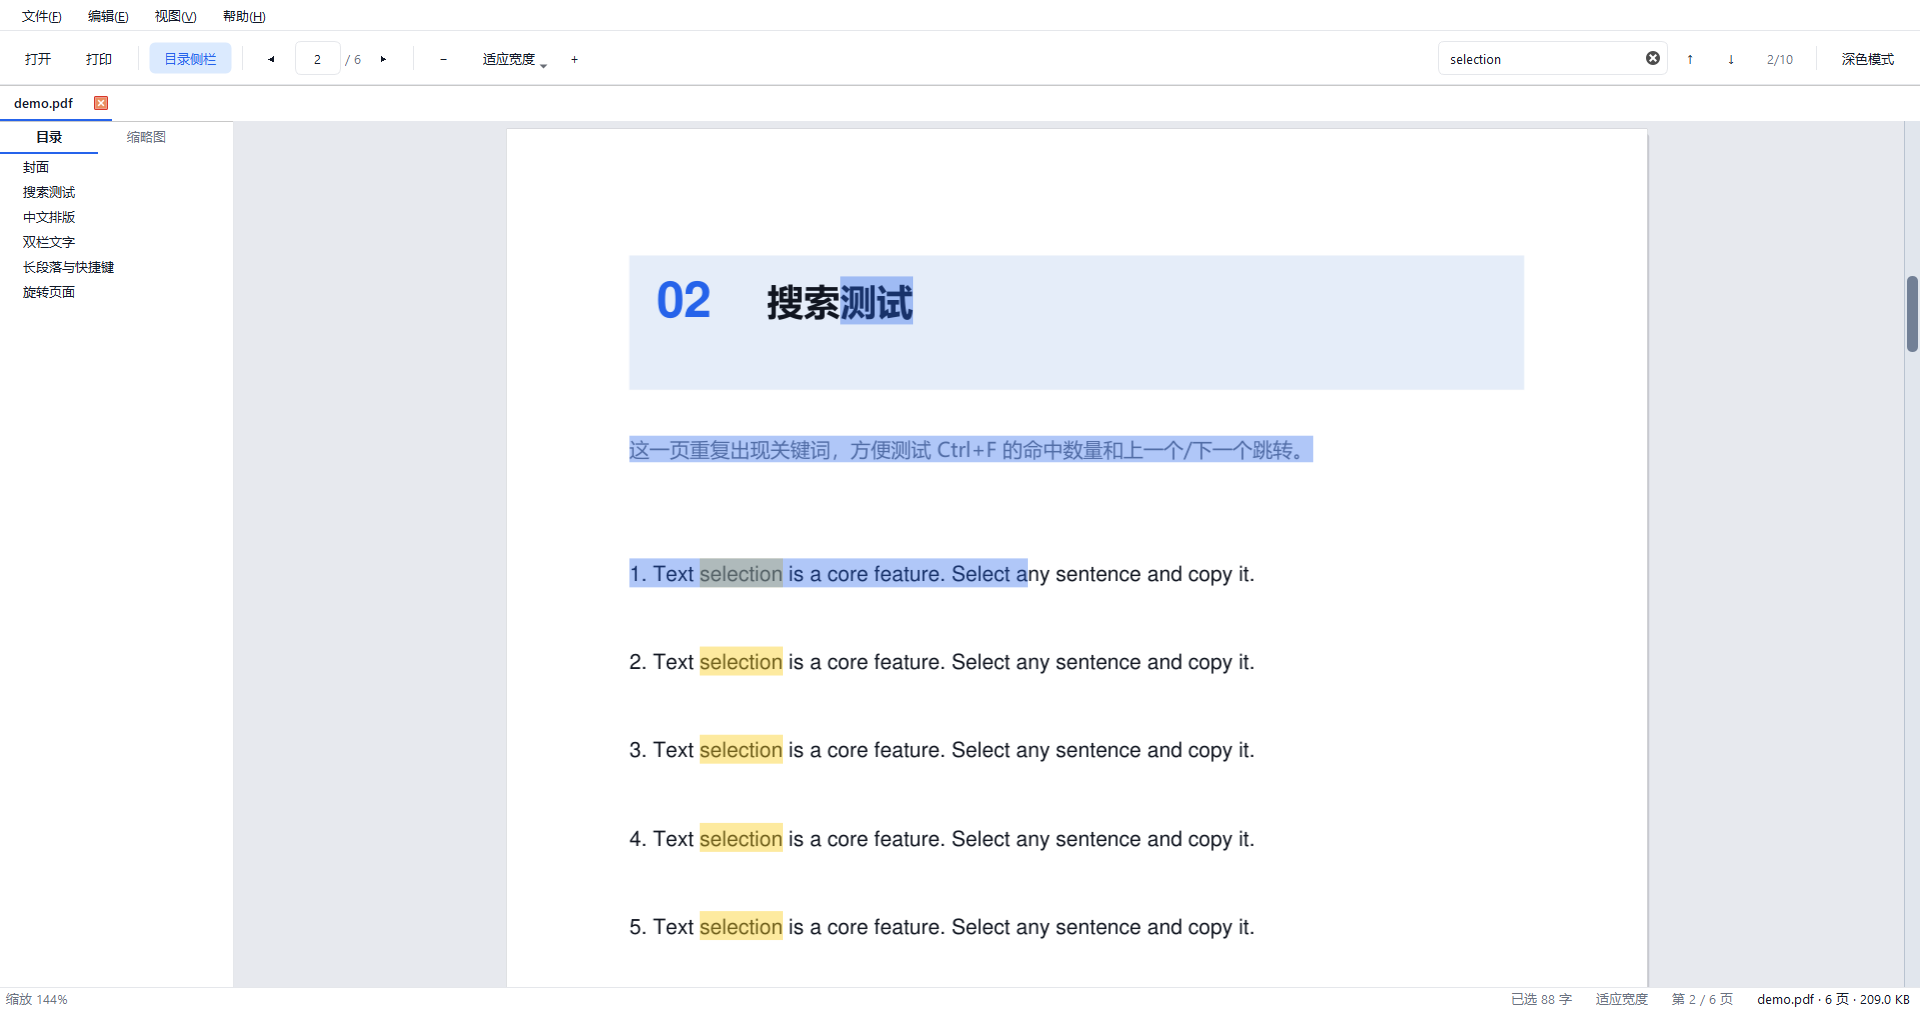
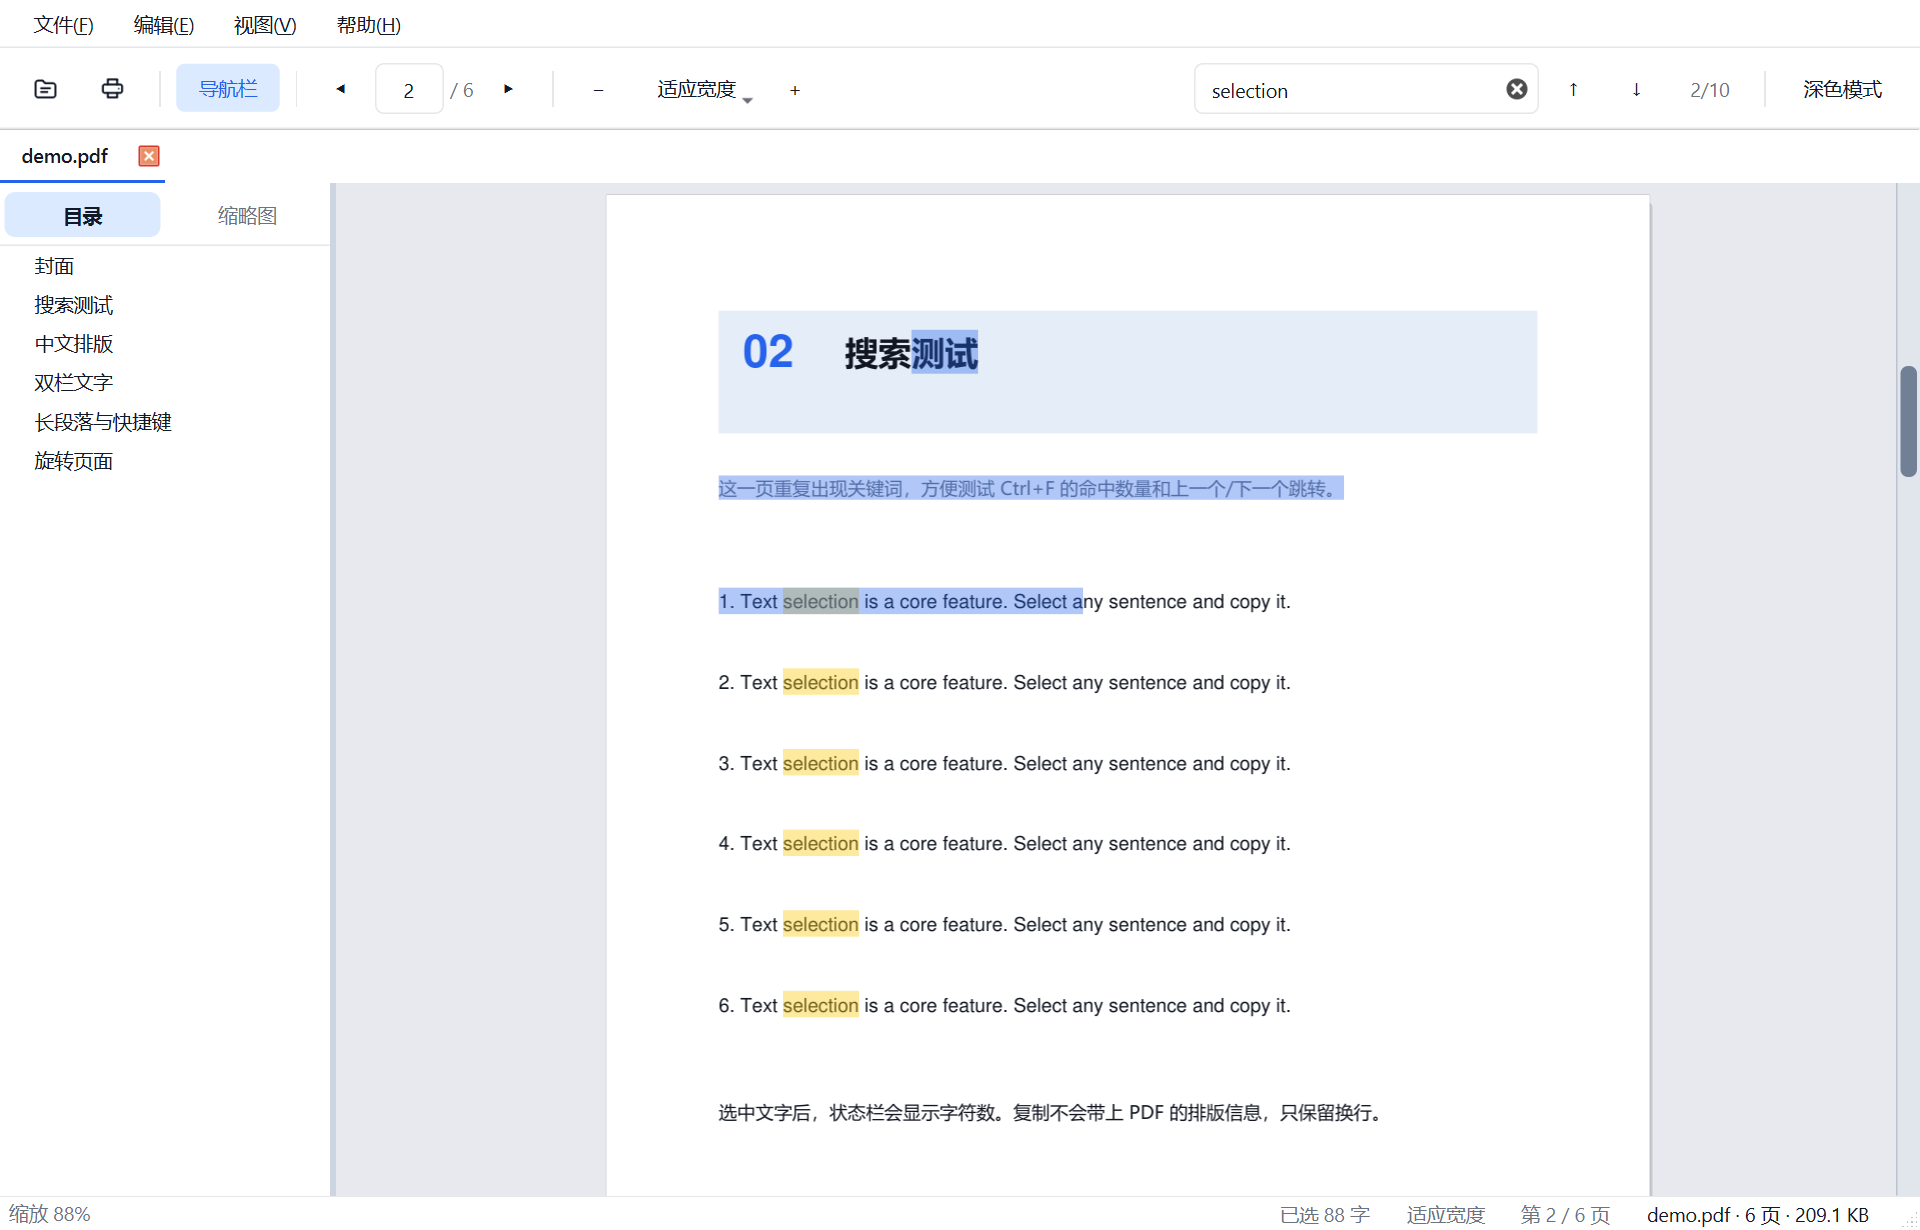
upgrade functionalities

diff --git a/pdfreader/theme.py b/pdfreader/theme.py
@@ -40,9 +40,10 @@ def palette(dark: bool) -> QPalette:
     return p
 
 
-def stylesheet(dark: bool) -> str:
+def colors(dark: bool) -> dict[str, str]:
+    """Theme colour tokens shared by the stylesheet and the painted icons."""
     if dark:
-        c = {
+        return {
             "window": "#0F1115",
             "panel": "#171A21",
             "base": "#1B1F27",
@@ -62,29 +63,36 @@ def stylesheet(dark: bool) -> str:
             "scroll_handle": "#667386",
             "scroll_handle_hover": "#8996A8",
             "scroll_handle_pressed": "#A7B3C3",
+            "divider": "#39404E",
+            "divider_hover": "#4B5563",
         }
-    else:
-        c = {
-            "window": "#F3F4F6",
-            "panel": "#FFFFFF",
-            "base": "#FFFFFF",
-            "text": "#111827",
-            "muted": "#6B7280",
-            "border": "#E5E7EB",
-            "hover": "#F3F4F6",
-            "accent": "#2563EB",
-            "accent_hover": "#1D4ED8",
-            "accent_text": "#FFFFFF",
-            "selected": "#DBEAFE",
-            "view": "#E7E9EE",
-            "handle": "#CBD5E1",
-            "handle_hover": "#94A3B8",
-            "scroll_track": "#E1E6ED",
-            "scroll_border": "#B9C3D0",
-            "scroll_handle": "#728096",
-            "scroll_handle_hover": "#5B6B7F",
-            "scroll_handle_pressed": "#475569",
-        }
+    return {
+        "window": "#F3F4F6",
+        "panel": "#FFFFFF",
+        "base": "#FFFFFF",
+        "text": "#111827",
+        "muted": "#6B7280",
+        "border": "#E5E7EB",
+        "hover": "#F3F4F6",
+        "accent": "#2563EB",
+        "accent_hover": "#1D4ED8",
+        "accent_text": "#FFFFFF",
+        "selected": "#DBEAFE",
+        "view": "#E7E9EE",
+        "handle": "#CBD5E1",
+        "handle_hover": "#94A3B8",
+        "scroll_track": "#E1E6ED",
+        "scroll_border": "#B9C3D0",
+        "scroll_handle": "#728096",
+        "scroll_handle_hover": "#5B6B7F",
+        "scroll_handle_pressed": "#475569",
+        "divider": "#CDD5E0",
+        "divider_hover": "#AEB9C8",
+    }
+
+
+def stylesheet(dark: bool) -> str:
+    c = colors(dark)
 
     return f"""
     QWidget {{
@@ -179,6 +187,34 @@ def stylesheet(dark: bool) -> str:
     }}
     QTabBar::close-button {{ margin: 2px; }}
 
+    QTabWidget#SidebarTabs::pane {{
+        border: none;
+        background: {c['panel']};
+    }}
+    QTabWidget#SidebarTabs QTabBar {{
+        background: {c['panel']};
+        border-bottom: 1px solid {c['border']};
+        padding: 0 6px;
+    }}
+    QTabWidget#SidebarTabs QTabBar::tab {{
+        background: transparent;
+        color: {c['muted']};
+        border: none;
+        border-radius: 7px;
+        padding: 6px 10px;
+        margin: 6px 3px;
+        min-width: 66px;
+    }}
+    QTabWidget#SidebarTabs QTabBar::tab:hover {{
+        background: {c['hover']};
+        color: {c['text']};
+    }}
+    QTabWidget#SidebarTabs QTabBar::tab:selected {{
+        background: {c['selected']};
+        color: {c['text']};
+        border: none;
+    }}
+
     QTreeWidget, QListWidget {{
         background: {c['panel']};
         border: none;
@@ -230,6 +266,12 @@ def stylesheet(dark: bool) -> str:
 
     QGraphicsView {{ background: {c['view']}; border: none; }}
     QSplitter::handle {{ background: {c['border']}; width: 1px; height: 1px; }}
+    QSplitter#SidebarSplitter::handle {{
+        background: {c['divider']};
+        width: 4px;
+    }}
+    QSplitter#SidebarSplitter::handle:hover {{ background: {c['divider_hover']}; }}
+    QSplitter#SidebarSplitter::handle:pressed {{ background: {c['accent']}; }}
 
     QScrollBar:vertical {{
         background: {c['scroll_track']};
@@ -295,8 +337,7 @@ def stylesheet(dark: bool) -> str:
         padding: 26px;
         background: {c['base']};
     }}
-    QFrame#SidebarTabs {{
+    QWidget#SidebarPanel {{
         background: {c['panel']};
-        border-right: 1px solid {c['border']};
     }}
     """

diff --git a/pdfreader/app.py b/pdfreader/app.py
@@ -62,9 +62,10 @@ from .assoc import (
 )
 from .document import PasswordRequired, PdfDocument, PdfError
 from .i18n import install_qt_translator, tr
+from .icons import open_icon, print_icon
 from .printing import print_document
 from .sidebar import PdfSidebar
-from .theme import palette, stylesheet
+from .theme import colors, palette, stylesheet
 from .view import PdfView
 
 APP_NAME = "pdfreader"
@@ -103,6 +104,12 @@ def _natural_size(size: int) -> str:
             return f"{value:.0f} {unit}" if unit == "B" else f"{value:.1f} {unit}"
         value /= 1024.0
     return f"{size} B"
+
+
+def _tooltip(action: QAction) -> str:
+    """Action text plus its shortcut, for icon-only toolbar buttons."""
+    shortcut = action.shortcut().toString()
+    return f"{action.text()}  ({shortcut})" if shortcut else action.text()
 
 
 class SearchEdit(QLineEdit):
@@ -242,14 +249,15 @@ class PdfTab(QWidget):
         self.document = document
         self.view = PdfView(document, self)
         self.sidebar = PdfSidebar(document, self)
-        self.sidebar.setObjectName("SidebarTabs")
         self.sidebar_width = max(
             self.sidebar.minimumWidth(),
             min(self.sidebar.maximumWidth(), int(sidebar_width)),
         )
 
         self.splitter = QSplitter(Qt.Orientation.Horizontal, self)
+        self.splitter.setObjectName("SidebarSplitter")
         self.splitter.setChildrenCollapsible(False)
+        self.splitter.setHandleWidth(4)
         self.splitter.addWidget(self.sidebar)
         self.splitter.addWidget(self.view)
         self.splitter.setStretchFactor(0, 0)
@@ -503,7 +511,7 @@ class MainWindow(QMainWindow):
         self.action_find.setShortcut(QKeySequence.StandardKey.Find)
         self.action_find.triggered.connect(self.focus_search)
 
-        self.action_sidebar = QAction(tr("目录侧栏"), self)
+        self.action_sidebar = QAction(tr("导航栏"), self)
         self.action_sidebar.setCheckable(True)
         self.action_sidebar.setChecked(self.sidebar_visible)
         self.action_sidebar.setShortcut(QKeySequence(Qt.Key.Key_F4))
@@ -604,6 +612,11 @@ class MainWindow(QMainWindow):
 
         toolbar.addAction(self.action_open)
         toolbar.addAction(self.action_print)
+        for action in (self.action_open, self.action_print):
+            button = toolbar.widgetForAction(action)
+            if isinstance(button, QToolButton):
+                button.setToolButtonStyle(Qt.ToolButtonStyle.ToolButtonIconOnly)
+                button.setToolTip(_tooltip(action))
         toolbar.addSeparator()
         toolbar.addAction(self.action_sidebar)
         toolbar.addSeparator()
@@ -715,6 +728,7 @@ class MainWindow(QMainWindow):
 
     # ------------------------------------------------------------------ theme
     def apply_theme(self) -> None:
+        self._refresh_action_icons()
         app = QApplication.instance()
         if app is not None:
             app.setPalette(palette(self.dark_mode))
@@ -723,6 +737,11 @@ class MainWindow(QMainWindow):
             tab = self.tabs.widget(index)
             if isinstance(tab, PdfTab):
                 tab.view.set_dark_background(self.dark_mode)
+
+    def _refresh_action_icons(self) -> None:
+        tint = colors(self.dark_mode)["text"]
+        self.action_open.setIcon(open_icon(tint))
+        self.action_print.setIcon(print_icon(tint))
 
     def set_dark_mode(self, enabled: bool) -> None:
         if enabled == self.dark_mode:
@@ -1277,7 +1296,7 @@ class MainWindow(QMainWindow):
                 "Ctrl+2    适应页面\n"
                 "Ctrl++/-  放大 / 缩小\n"
                 "Ctrl+滚轮 缩放\n"
-                "F4        显示 / 隐藏目录侧栏\n"
+                "F4        显示 / 隐藏导航栏\n"
                 "F11       全屏\n"
                 "PageUp/Down、空格  翻页 / 滚动\n"
                 "Esc       清除选择"

diff --git a/pdfreader/icons.py b/pdfreader/icons.py
@@ -1,0 +1,100 @@
+"""Monochrome toolbar icons painted with QPainter (no bitmap assets)."""
+
+from __future__ import annotations
+
+from typing import Callable
+
+from PySide6.QtCore import QPointF, QRectF, Qt
+from PySide6.QtGui import (
+    QColor,
+    QIcon,
+    QPainter,
+    QPainterPath,
+    QPen,
+    QPixmap,
+    QPolygonF,
+)
+
+_GRID = 18.0
+_SIZES = (16, 18, 20, 22, 24, 32, 36, 40, 48, 64)
+
+_Draw = Callable[[QPainter, QColor], None]
+
+
+def _paint(draw: _Draw, size: int, ratio: int, color: QColor) -> QPixmap:
+    pixmap = QPixmap(round(size * ratio), round(size * ratio))
+    pixmap.setDevicePixelRatio(ratio)
+    pixmap.fill(Qt.GlobalColor.transparent)
+    painter = QPainter(pixmap)
+    painter.setRenderHint(QPainter.RenderHint.Antialiasing, True)
+    painter.scale(size / _GRID, size / _GRID)
+    pen = QPen(color)
+    pen.setWidthF(1.35)
+    pen.setCapStyle(Qt.PenCapStyle.RoundCap)
+    pen.setJoinStyle(Qt.PenJoinStyle.RoundJoin)
+    painter.setPen(pen)
+    painter.setBrush(Qt.BrushStyle.NoBrush)
+    draw(painter, color)
+    painter.end()
+    return pixmap
+
+
+def _icon(draw: _Draw, color: str) -> QIcon:
+    icon = QIcon()
+    tint = QColor(color)
+    for size in _SIZES:
+        for ratio in (1, 2):
+            icon.addPixmap(_paint(draw, size, ratio, tint))
+    return icon
+
+
+def _draw_open(painter: QPainter, color: QColor) -> None:
+    folder = QPainterPath()
+    folder.moveTo(2.4, 6.1)
+    folder.cubicTo(2.4, 5.15, 3.17, 4.38, 4.12, 4.38)
+    folder.lineTo(7.0, 4.38)
+    folder.lineTo(8.8, 6.15)
+    folder.lineTo(13.9, 6.15)
+    folder.cubicTo(14.85, 6.15, 15.62, 6.92, 15.62, 7.87)
+    folder.lineTo(15.62, 13.9)
+    folder.cubicTo(15.62, 14.85, 14.85, 15.62, 13.9, 15.62)
+    folder.lineTo(4.12, 15.62)
+    folder.cubicTo(3.17, 15.62, 2.4, 14.85, 2.4, 13.9)
+    folder.closeSubpath()
+    painter.drawPath(folder)
+    painter.drawLine(QPointF(6.1, 9.5), QPointF(12.0, 9.5))
+    painter.drawLine(QPointF(6.1, 12.0), QPointF(10.2, 12.0))
+
+
+def _draw_print(painter: QPainter, color: QColor) -> None:
+    body = QPainterPath()
+    body.addRoundedRect(QRectF(2.6, 7.0, 12.8, 5.6), 1.3, 1.3)
+    painter.drawPath(body)
+    painter.drawPolyline(
+        QPolygonF(
+            [QPointF(5.9, 7.0), QPointF(5.9, 3.6), QPointF(12.1, 3.6), QPointF(12.1, 7.0)]
+        )
+    )
+    painter.drawPolyline(
+        QPolygonF(
+            [
+                QPointF(5.9, 12.6),
+                QPointF(5.9, 15.6),
+                QPointF(12.1, 15.6),
+                QPointF(12.1, 12.6),
+            ]
+        )
+    )
+    painter.setPen(Qt.PenStyle.NoPen)
+    painter.setBrush(color)
+    painter.drawEllipse(QPointF(13.2, 9.8), 0.55, 0.55)
+
+
+def open_icon(color: str) -> QIcon:
+    """Folder glyph used for the toolbar “open” action."""
+    return _icon(_draw_open, color)
+
+
+def print_icon(color: str) -> QIcon:
+    """Printer glyph used for the toolbar “print” action."""
+    return _icon(_draw_print, color)

diff --git a/pdfreader/sidebar.py b/pdfreader/sidebar.py
@@ -70,6 +70,8 @@ class PdfSidebar(QWidget):
 
     def __init__(self, document: PdfDocument, parent=None) -> None:
         super().__init__(parent)
+        self.setObjectName("SidebarPanel")
+        self.setAttribute(Qt.WidgetAttribute.WA_StyledBackground, True)
         self.document = document
         self._syncing = False
         self._thumb_page = 0
@@ -78,7 +80,9 @@ class PdfSidebar(QWidget):
         self._thumb_timer.timeout.connect(self._make_thumbnails)
 
         self.tabs = QTabWidget(self)
-        self.tabs.setDocumentMode(True)
+        self.tabs.setObjectName("SidebarTabs")
+        self.tabs.tabBar().setExpanding(True)
+        self.tabs.tabBar().setDrawBase(False)
 
         # ---------------------------------------------------------- outline
         self.outline = QTreeWidget(self)
@@ -114,6 +118,12 @@ class PdfSidebar(QWidget):
 
         self.setMinimumWidth(220)
         self.setMaximumWidth(560)
+
+    def resizeEvent(self, event) -> None:  # noqa: N802
+        super().resizeEvent(event)
+        # QTabBar sizes itself to its tabs; stretch it across the panel so the
+        # two tabs share the full width.
+        self.tabs.tabBar().setMinimumWidth(self.width())
 
     # --------------------------------------------------------------- outline
     def _fill_outline(self) -> None:

diff --git a/pdfreader/i18n.py b/pdfreader/i18n.py
@@ -68,7 +68,7 @@ _EN: dict[str, str] = {
     "复制全文": "Copy All Text",
     "清除选择": "Clear Selection",
     "查找…": "Find…",
-    "目录侧栏": "Sidebar",
+    "导航栏": "Navigation bar",
     "放大": "Zoom In",
     "缩小": "Zoom Out",
     "适应宽度": "Fit Width",
@@ -139,7 +139,7 @@ _EN: dict[str, str] = {
     "Ctrl+2    适应页面\n"
     "Ctrl++/-  放大 / 缩小\n"
     "Ctrl+滚轮 缩放\n"
-    "F4        显示 / 隐藏目录侧栏\n"
+    "F4        显示 / 隐藏导航栏\n"
     "F11       全屏\n"
     "PageUp/Down、空格  翻页 / 滚动\n"
     "Esc       清除选择":
@@ -153,7 +153,7 @@ _EN: dict[str, str] = {
         "Ctrl+2    Fit page\n"
         "Ctrl++/-  Zoom in / out\n"
         "Ctrl+wheel  Zoom\n"
-        "F4        Show / hide sidebar\n"
+        "F4        Show / hide navigation bar\n"
         "F11       Full screen\n"
         "PageUp/Down, Space  Page / scroll\n"
         "Esc       Clear selection",
